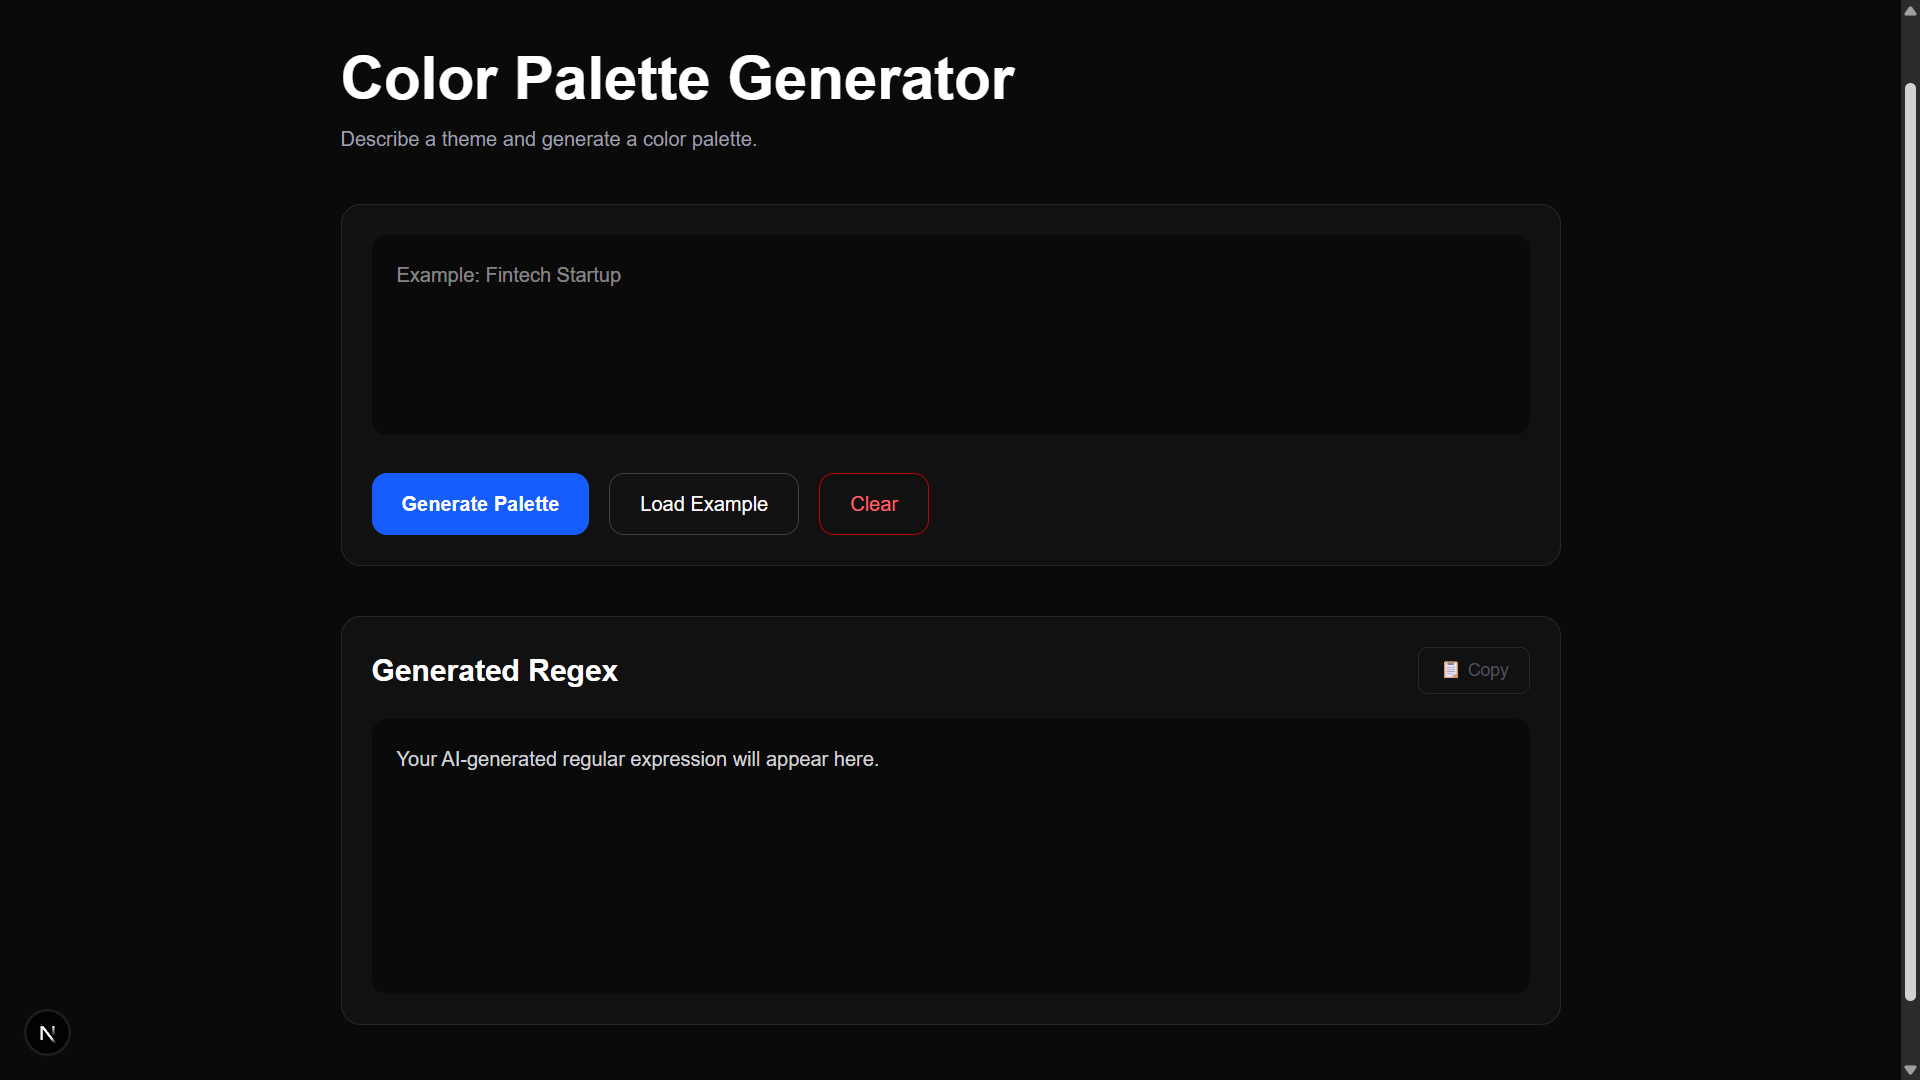
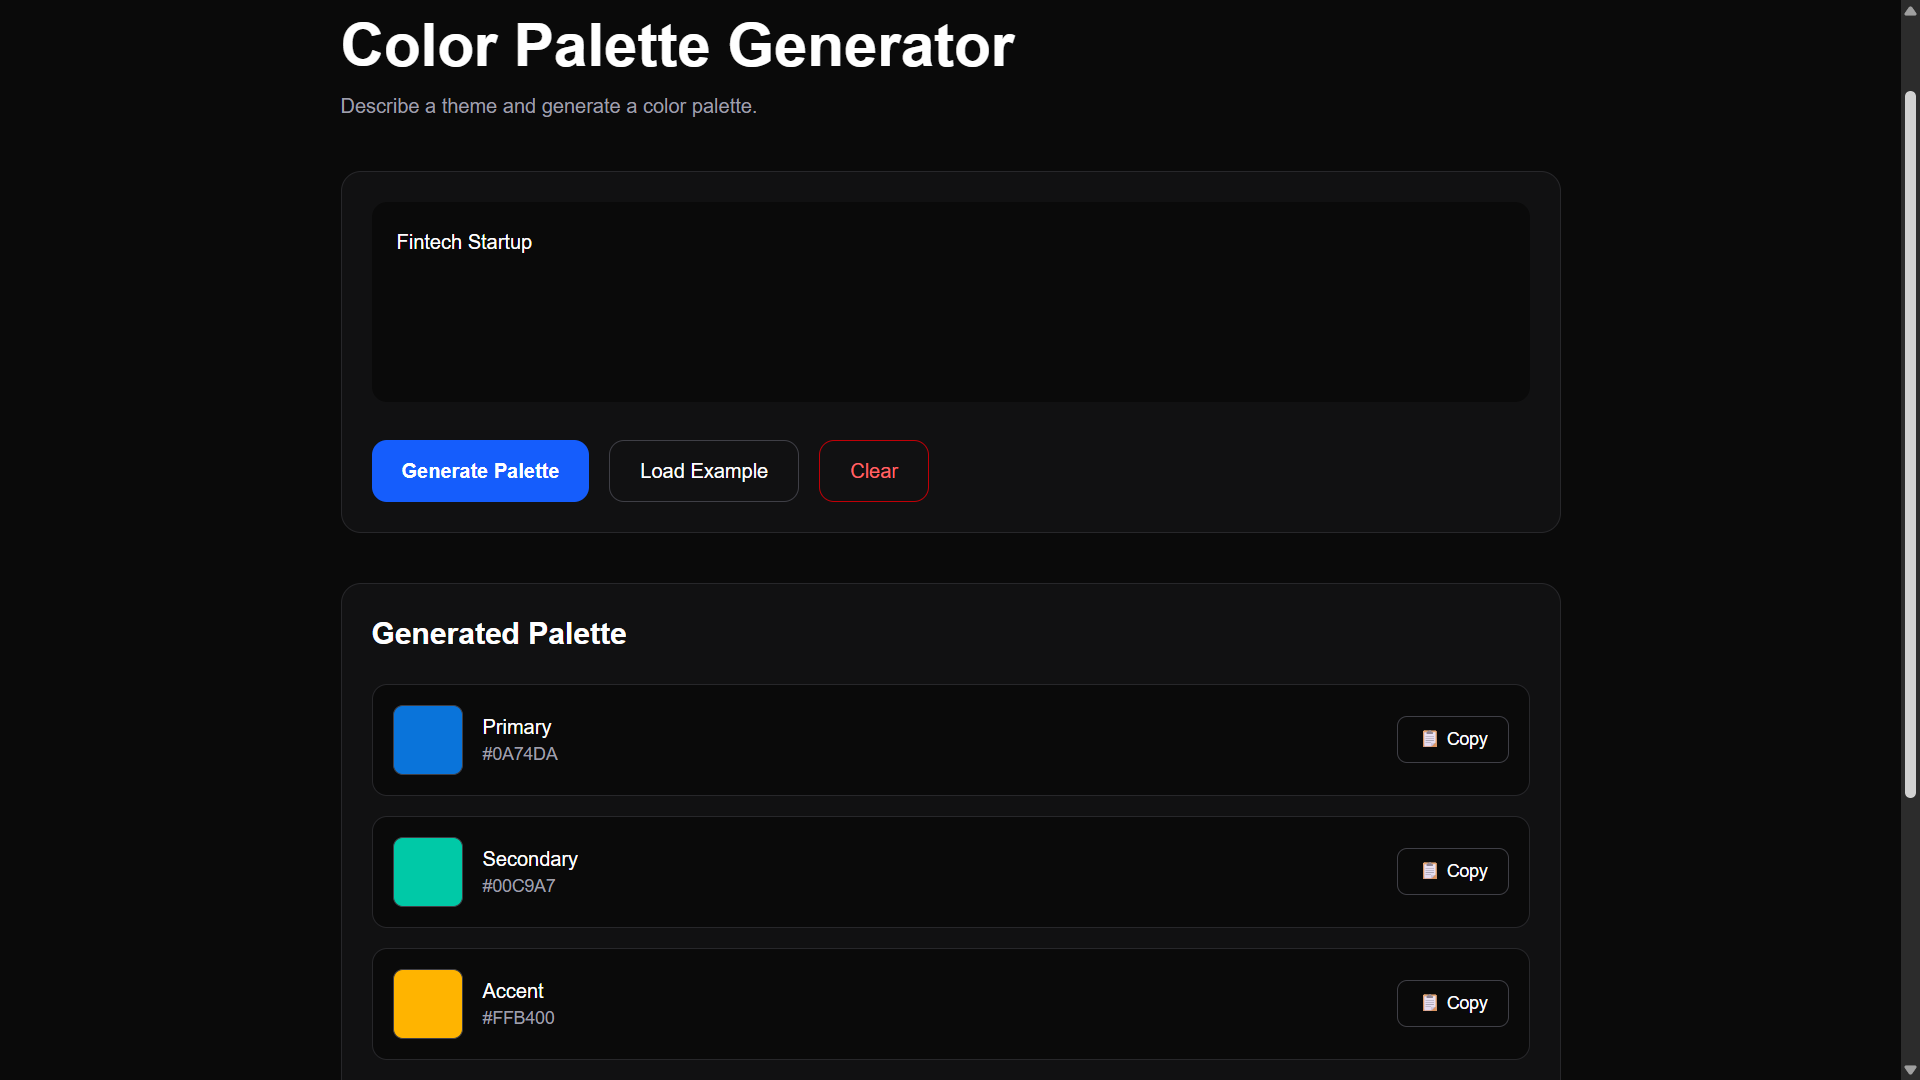
docs: replace screenshots with fresh captures from the live demo
Swap the old dev-server screenshots for English captures of the
production site (landing, featured tools, color palette, fake data) and
show them in a two-column table with captions.

diff --git a/README.md b/README.md
@@ -126,17 +126,10 @@ docs/screenshots/         # README images
 
 ## Screenshots
 
-| Dashboard | JSON Explain |
+| | |
 |---|---|
-| ![Dashboard](docs/screenshots/dashboard.png) | ![JSON Explain](docs/screenshots/json-explain.png) |
-
-| Regex Generator | Color Palette Generator |
-|---|---|
-| ![Regex Generator](docs/screenshots/regex-generator.png) | ![Color Palette Generator](docs/screenshots/color-palette.png) |
-
-| API Mock Generator |
-|---|
-| ![API Mock Generator](docs/screenshots/api-mock.png) |
+| ![Landing page](docs/screenshots/landing.png)<br>**Landing page** | ![Featured tools](docs/screenshots/featured-tools.png)<br>**Featured tools** |
+| ![Color Palette Generator](docs/screenshots/color-palette.png)<br>**Color Palette Generator** | ![Fake Data Generator](docs/screenshots/fake-data-generator.png)<br>**Fake Data Generator** |
 
 ## Known Limitations
 
